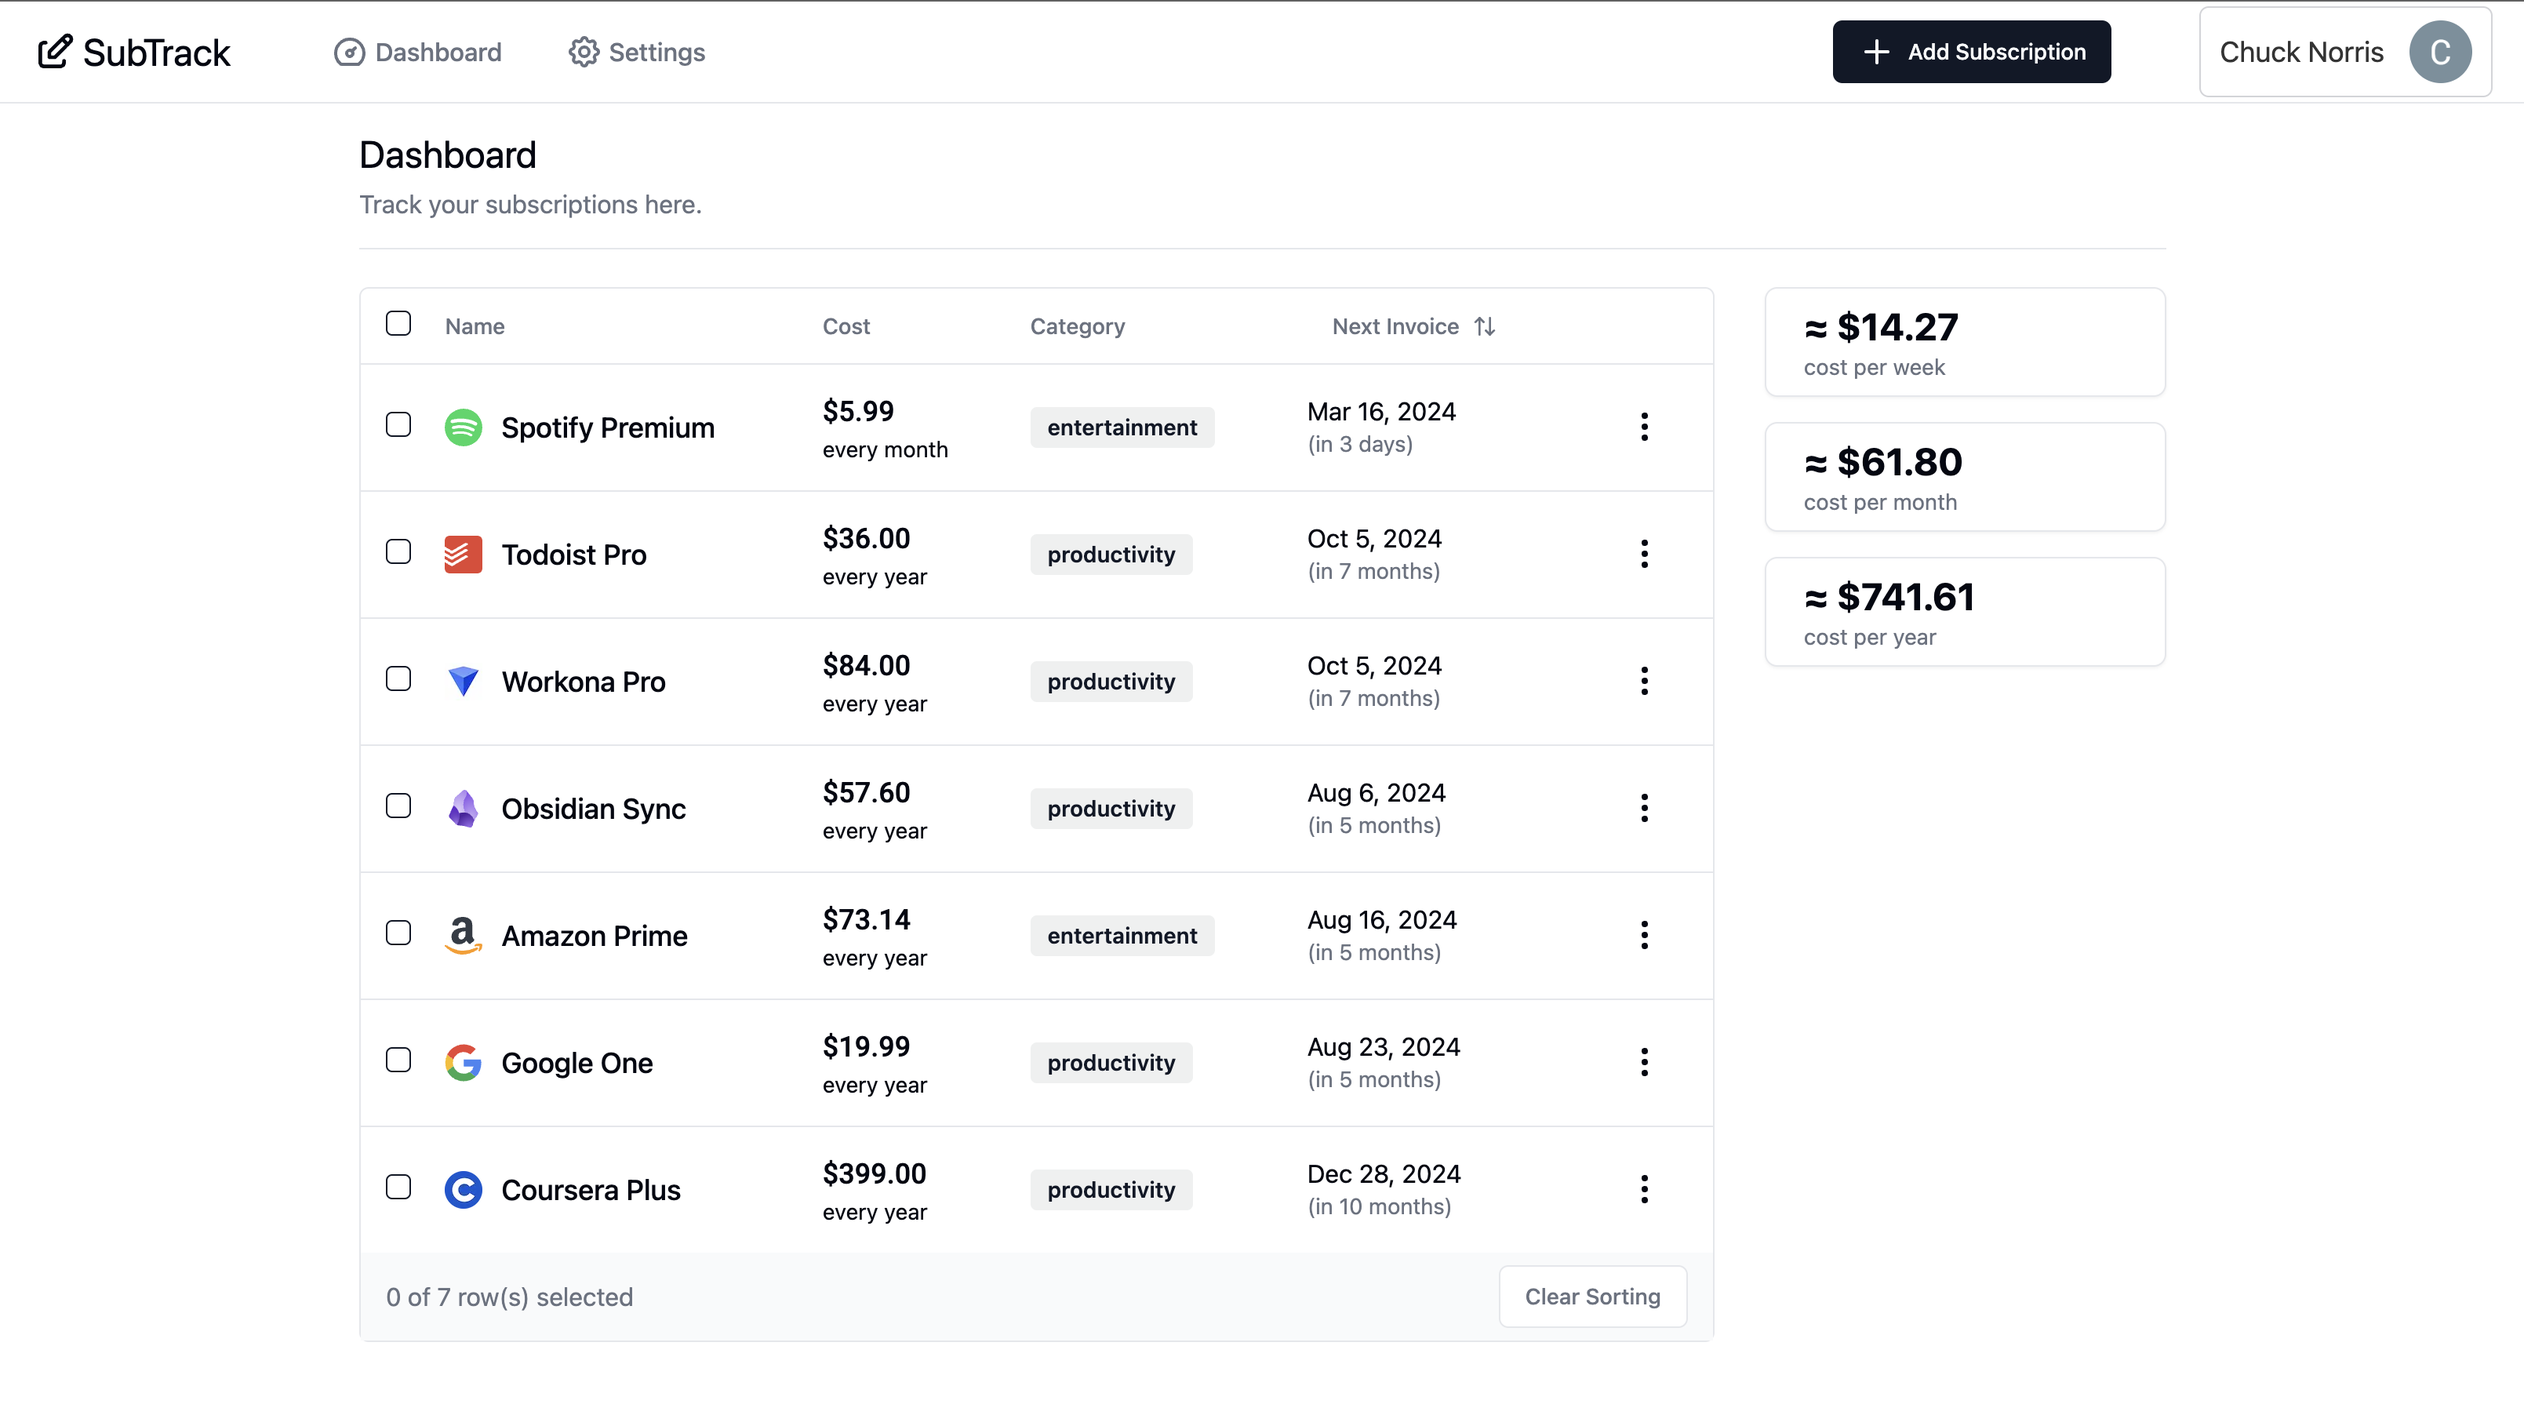
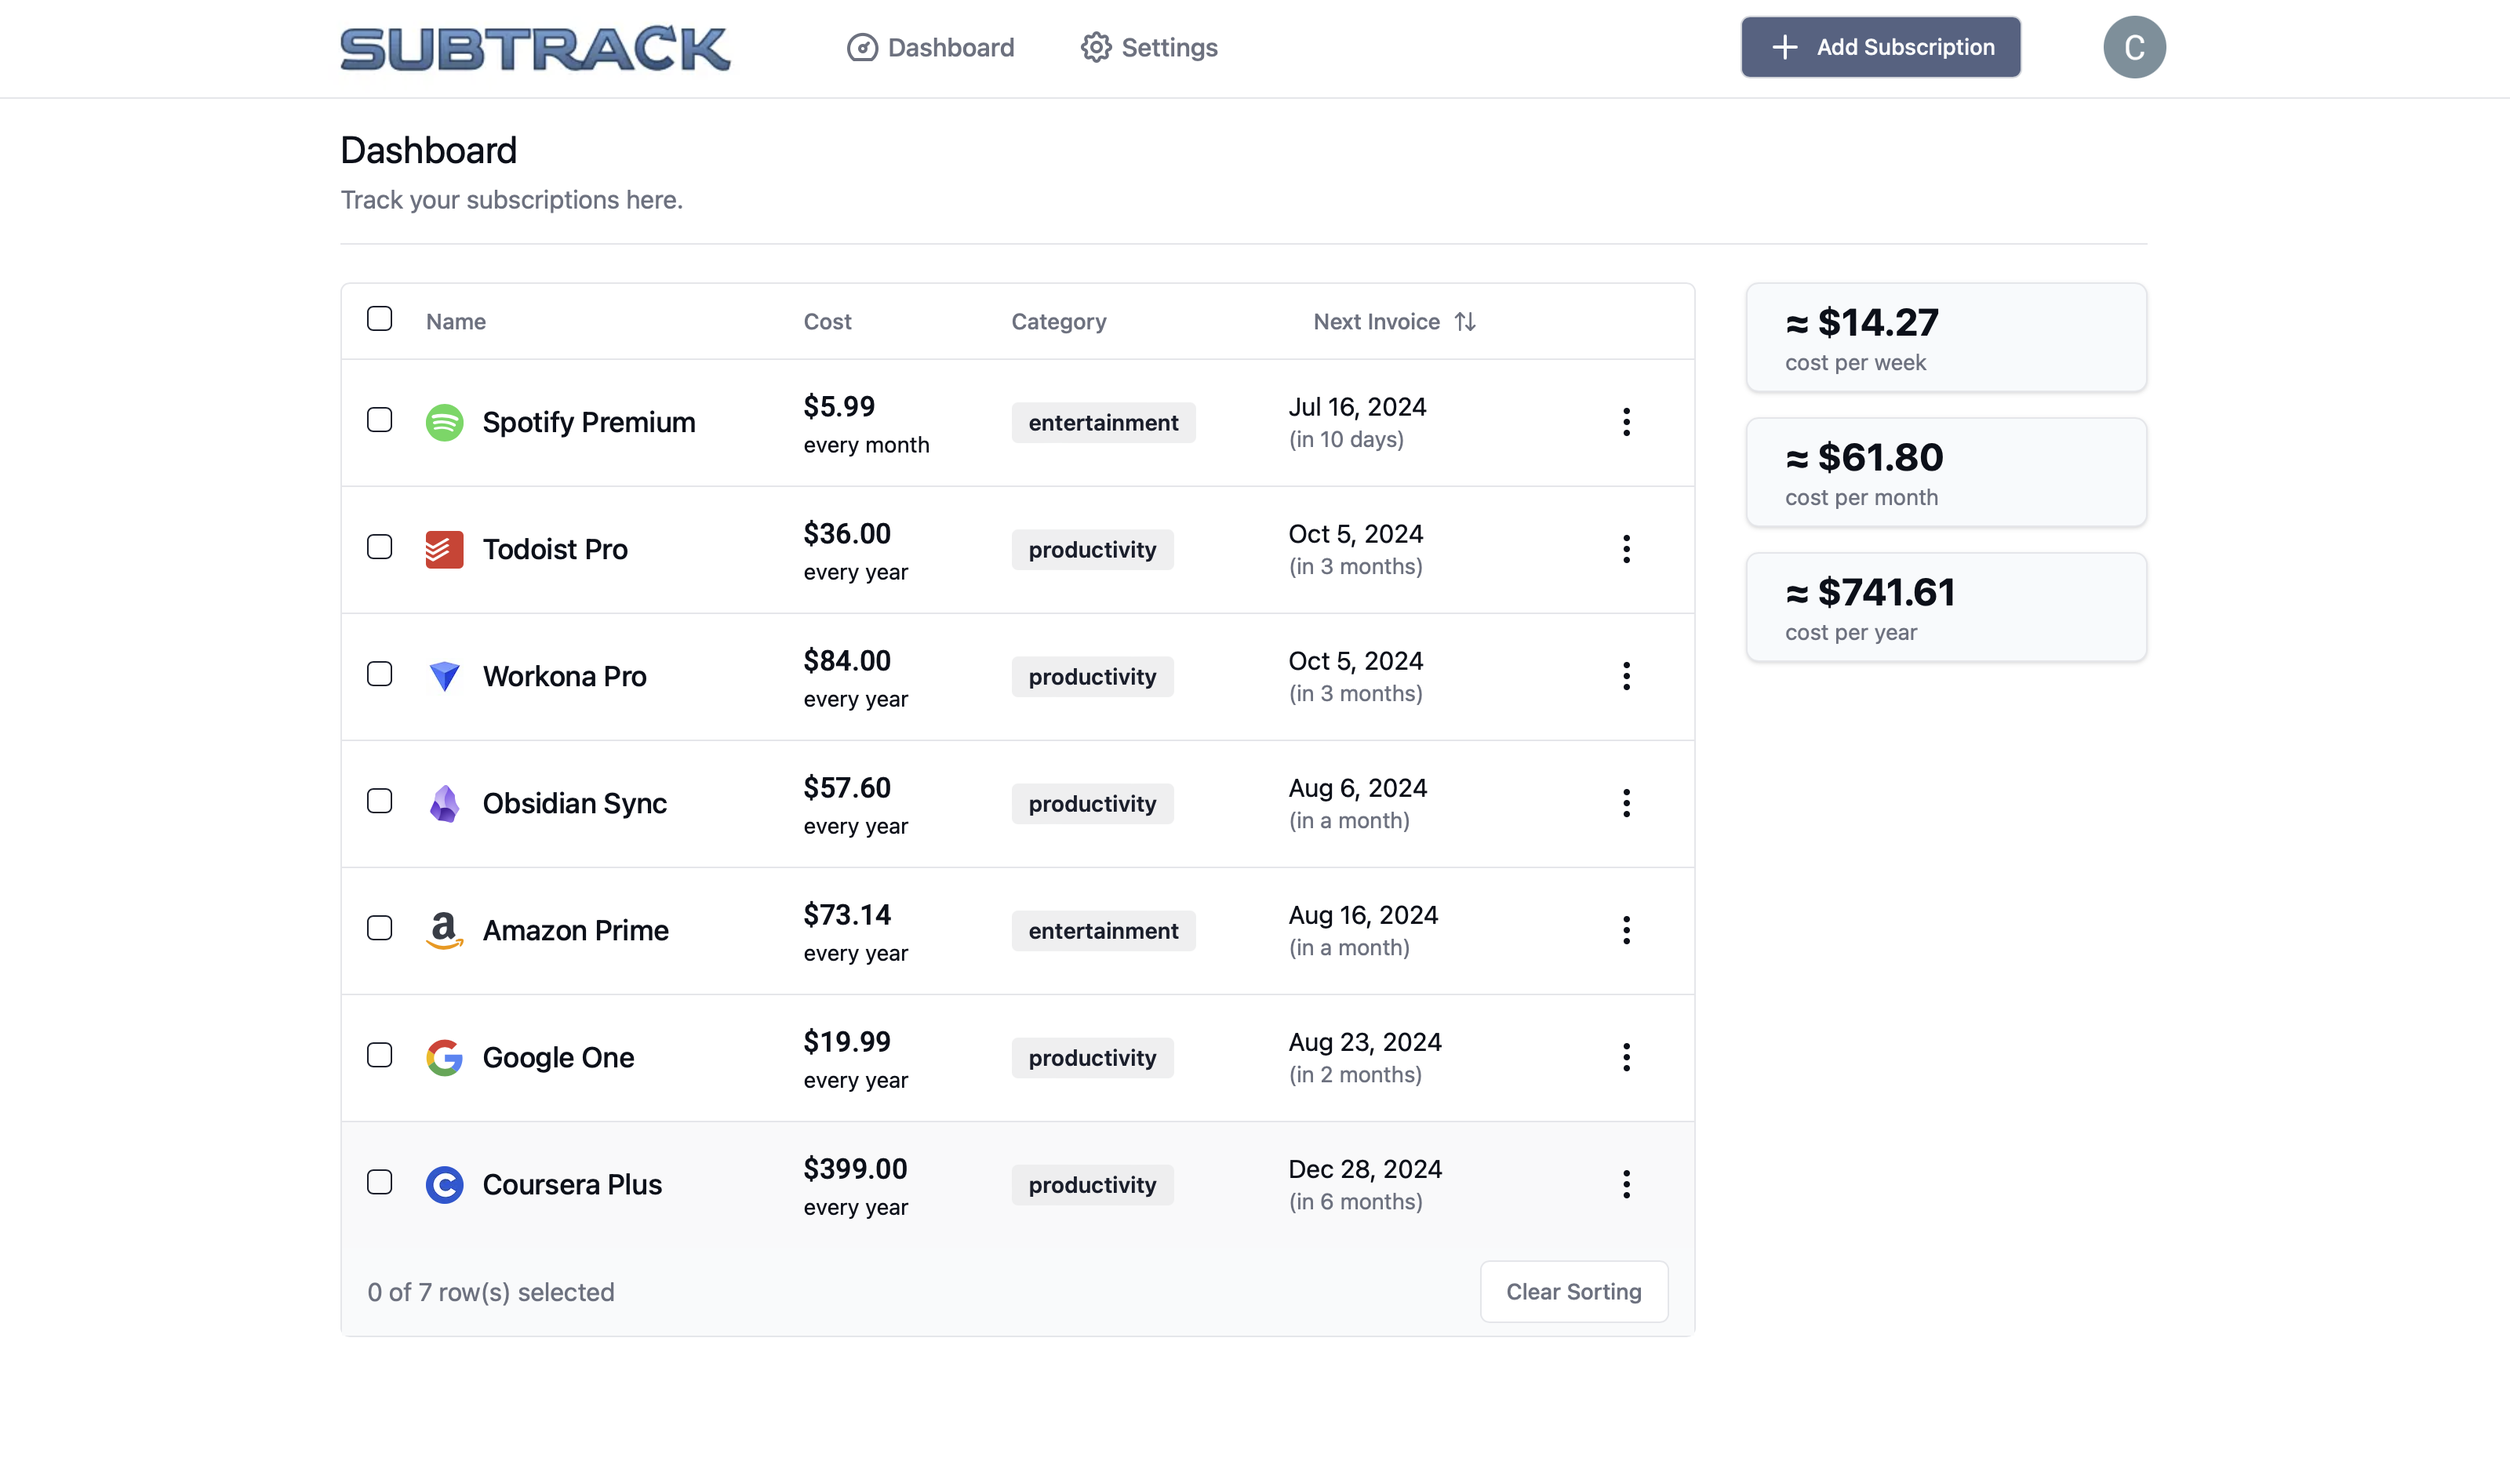
improve ui and colors

diff --git a/src/components/ui/button.tsx b/src/components/ui/button.tsx
@@ -10,7 +10,7 @@ const buttonVariants = cva(
   {
     variants: {
       variant: {
-        default: "bg-[#516282] text-primary-foreground hover:bg-[#516282]/90 border-2 border-[#181f29]",
+        default: "bg-[#516282] text-primary-foreground hover:bg-[#516282]/90 border border-gray-300",
         destructive:
           "bg-destructive text-destructive-foreground hover:bg-destructive/90",
         outline:

diff --git a/src/components/subscriptions-table/table.tsx b/src/components/subscriptions-table/table.tsx
@@ -80,7 +80,7 @@ export default function DataTable<TData, TValue>({
             ))
           ) : (
             <TableRow>
-              <TableCell colSpan={columns.length} className="h-24 text-center">
+              <TableCell colSpan={columns.length} className="h-24 text-center text-gray-500">
                 You're not tracking any subscriptions yet.
               </TableCell>
             </TableRow>

diff --git a/src/components/subscriptions/StatisticCard.tsx b/src/components/subscriptions/StatisticCard.tsx
@@ -8,7 +8,7 @@ type StatisticCardProps = {
 
 export default function StatisticCard({ value, description }: StatisticCardProps) {
   return (
-    <Card className="bg-[#d6e7ff]/30 border border-gray-400">
+    <Card className="bg-slate-50 shadow">
       <CardContent className="py-2">
         <div className="text-2xl font-bold">
           ≈ {toMoneyString(value)}
